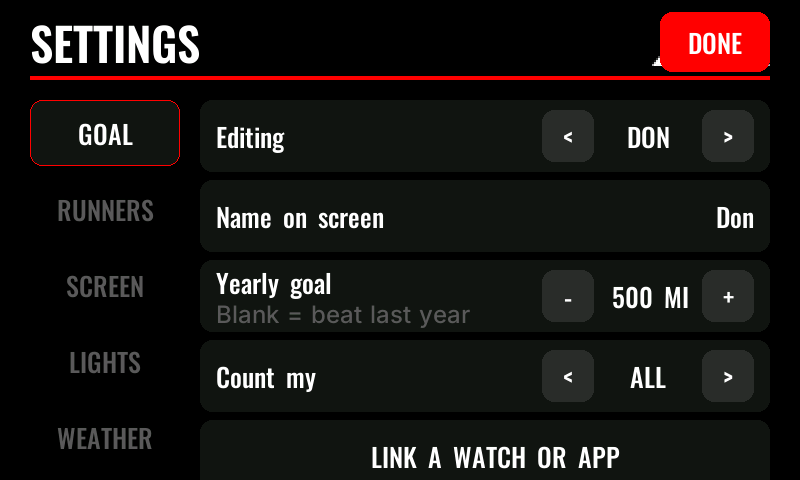
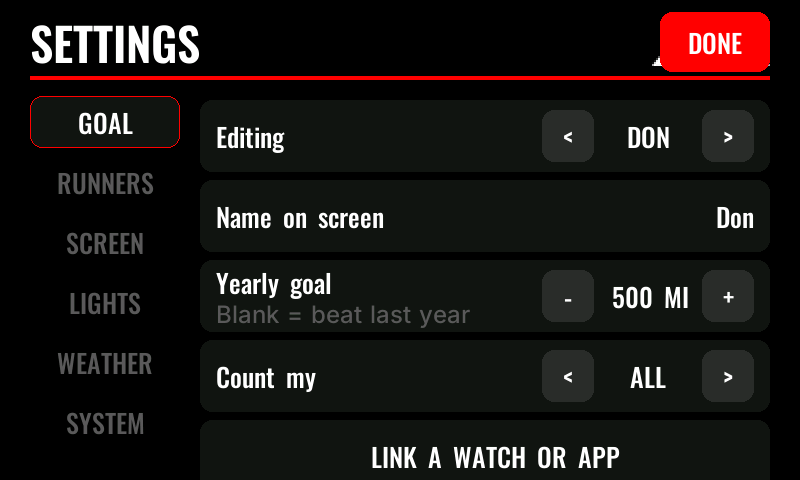
Settings: keep six tabs on screen, reset runner on duo off, never switch providers mid-sync

diff --git a/firmware-crowpanel7/src/main.cpp b/firmware-crowpanel7/src/main.cpp
@@ -674,8 +674,7 @@ void tzStep(int dir) {
       app::cfg.tz = z.posix;
       app::cfg.tzManual = true;
       app::applyTz();
-      for (int r = 0; r < app::runners(); r++) { src::use(r); app::requestSync(true); }
-      src::use(setRunner);
+      for (int r = 0; r < app::runners(); r++) app::requestSync(true, r);
       break;
     }
 }
@@ -708,14 +707,14 @@ void setApply(int id, int dir) {  // dir: -1 left/minus, +1 right/plus, 0 the ro
     }
     case S_KINDS:
       app::kindsOf(setRunner) = (uint8_t)(((int)app::kindsOf(setRunner) - 1 + dir + 3) % 3 + 1);
-      src::use(setRunner);
-      app::requestSync(true);
+      app::requestSync(true, setRunner);
       break;
     case S_NAME: openEntry(id, app::nameOf(setRunner).c_str()); break;
     case S_LINK: scanWhat = 0; scanOpen = true; break;
     case S_DUO:
       c.duo = !c.duo;
-      if (c.duo) snprintf(setStatusBuf, sizeof setStatusBuf, "Now link runner 2's watch: GOAL tab, Link a watch");
+      if (!c.duo) setRunner = 0;
+      else snprintf(setStatusBuf, sizeof setStatusBuf, "Now link runner 2's watch: GOAL tab, Link a watch");
       break;
     case S_SHARED: c.sharedGoal = max(0.0f, c.sharedGoal + dir * 50); break;
     case S_THEME:
@@ -741,8 +740,7 @@ void setApply(int id, int dir) {  // dir: -1 left/minus, +1 right/plus, 0 the ro
       snprintf(setStatusBuf, sizeof setStatusBuf, "Checking for an update...");
       break;
     case S_SYNC:
-      src::use(setRunner);
-      app::requestSync(true);
+      app::requestSync(true, setRunner);
       snprintf(setStatusBuf, sizeof setStatusBuf, "Refreshing miles...");
       break;
     case S_PHONE: scanWhat = 2; scanOpen = true; break;
@@ -1123,8 +1121,8 @@ void applyTz() {
   for (Runner& r : run) r.wantFull = true, r.bootSync = false;
 }
 
-void requestSync(bool full) {
-  Runner& r = run[src::current()];
+void requestSync(bool full, int runner) {
+  Runner& r = run[runner < 0 ? src::current() : runner];
   if (full) r.wantFull = r.reloadAll = true, r.bootSync = false;
   for (Runner& x : run) x.wantRecent = true, x.backoffUntil = 0;
   dirty = true;

diff --git a/firmware-crowpanel7/src/ui.cpp b/firmware-crowpanel7/src/ui.cpp
@@ -758,7 +758,7 @@ uint32_t flakesAt = 0;
 float frand(float a, float b) { return a + (b - a) * (rand() % 1000) / 1000.0f; }
 
 // ---- On-screen settings ------------------------------------------------------
-const int TAB_X = M, TAB_W = 150, TAB_Y0 = 100, TAB_H = 66, TAB_GAP = 10;
+const int TAB_X = M, TAB_W = 150, TAB_Y0 = 96, TAB_H = 52, TAB_GAP = 8;
 const int SROW_X = 200, SROW_W = W - SROW_X - M, SROW_Y0 = 100, SROW_H = 72, SROW_GAP = 8;
 const int CTL_Y = SROW_H / 2 - 26, CTL_W = 52, CTL_H = 52, VAL_W = 108;
 const int CTL_X = SROW_X + SROW_W - (2 * CTL_W + VAL_W) - 16;

diff --git a/firmware-crowpanel7/src/app.h b/firmware-crowpanel7/src/app.h
@@ -33,7 +33,7 @@ namespace app {
 extern Settings cfg;
 void saveSettings();
 void applyTz();
-void requestSync(bool full);
+void requestSync(bool full, int runner = -1);
 void refresh();  // redraw the current screen
 void requestPortal();
 void requestReset();
